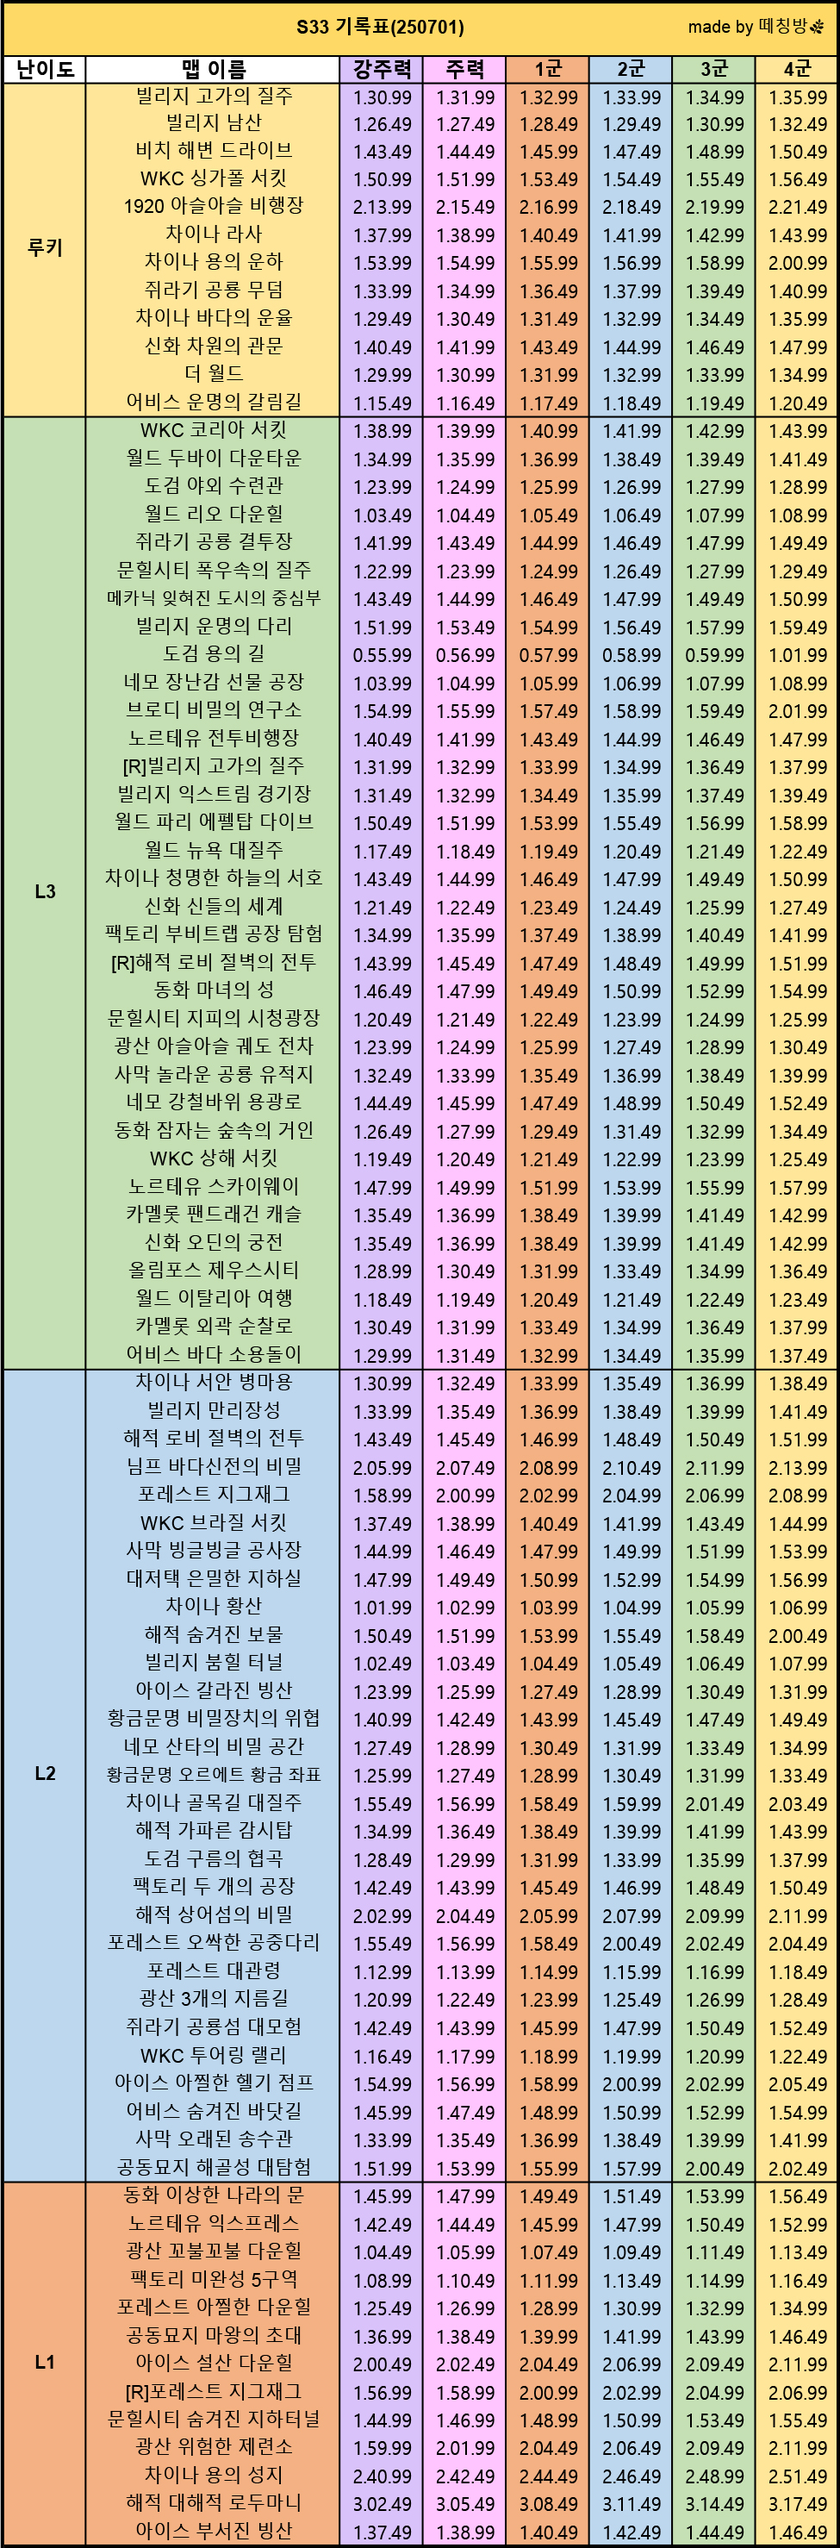
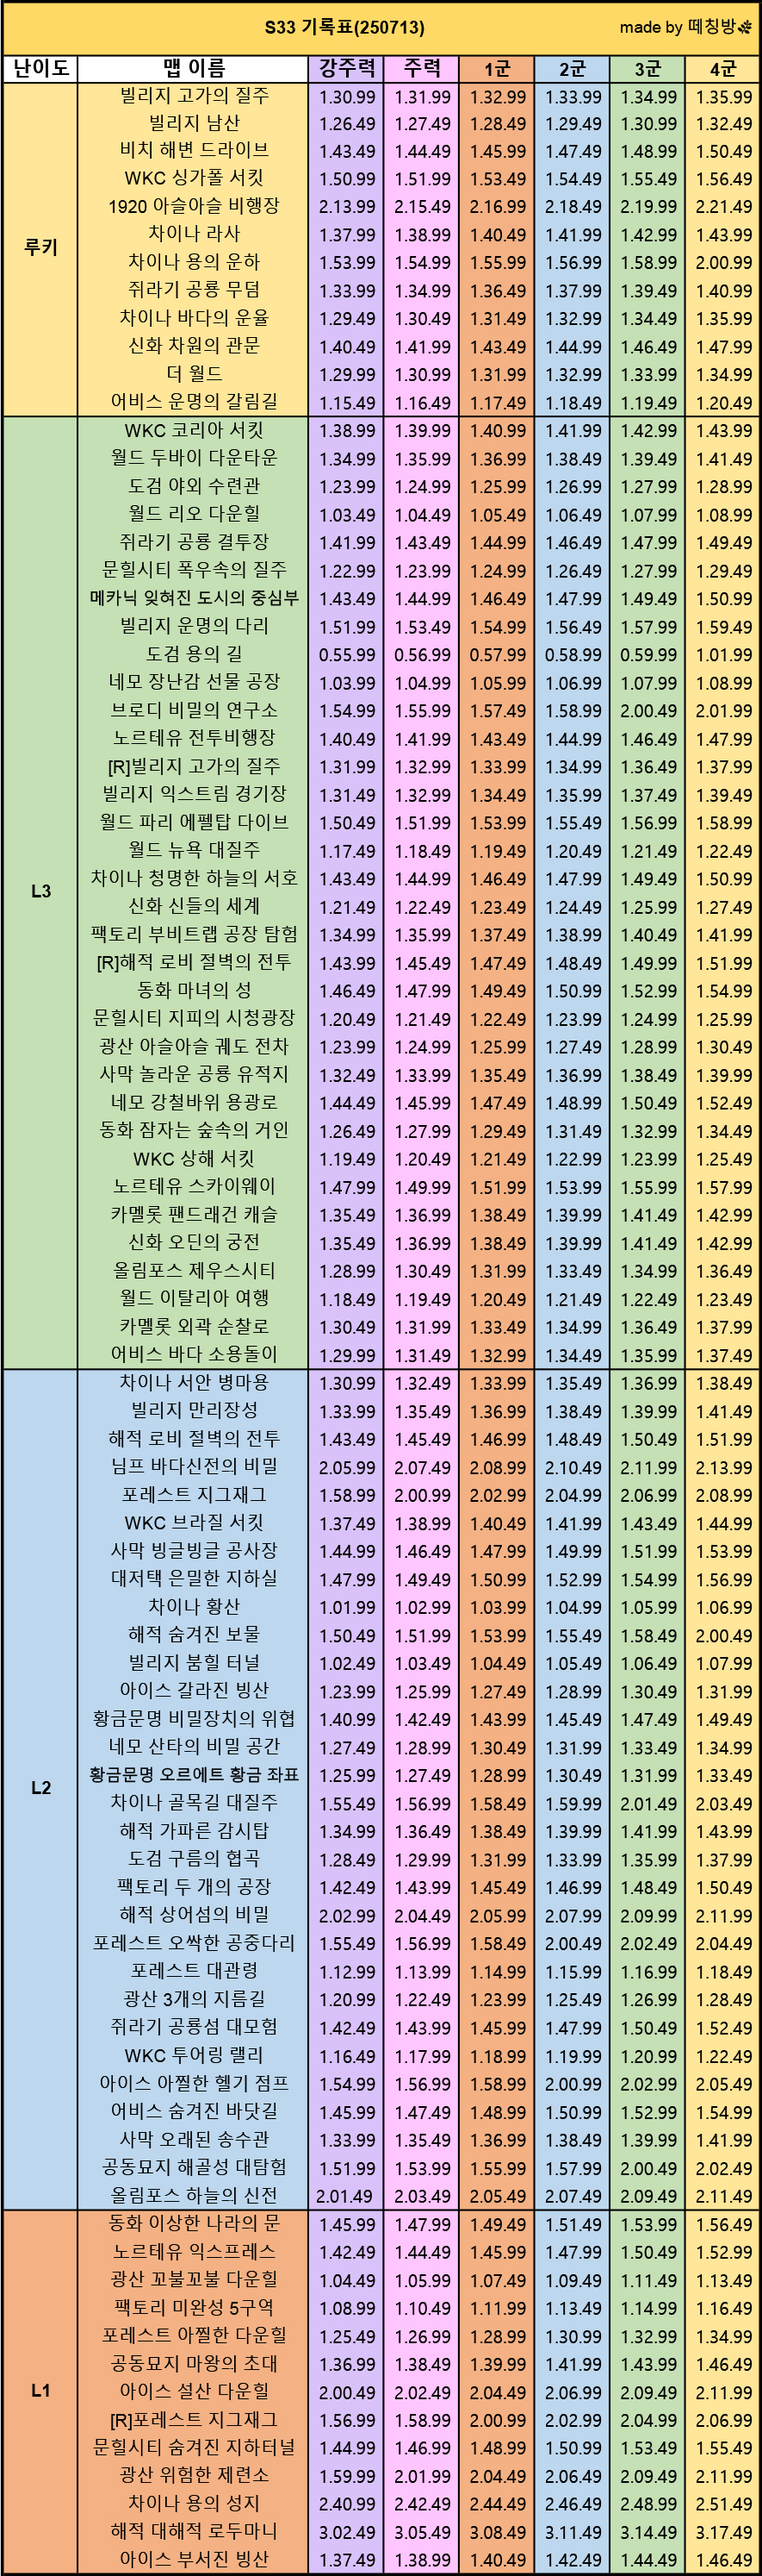
[frontend] feat: New S33 track

diff --git a/client/src/global/mapImages.js b/client/src/global/mapImages.js
@@ -76,6 +76,7 @@ import L2_026 from "../assets/images/map/026 아찔한 헬기 점프.png";
 import L2_027 from "../assets/images/map/027 어비스 숨겨진 바닷길.png";
 import L2_028 from "../assets/images/map/028 사막 오래된 송수관.png";
 import L2_029 from "../assets/images/map/029 해골성.png";
+import L2_030 from "../assets/images/map/030 올림포스 하늘의 신전.png";
 
 import L1_001 from "../assets/images/map/001 동이문.png";
 import L1_002 from "../assets/images/map/002 노익.png";
@@ -170,6 +171,7 @@ const mapImages = [
   L2_027,
   L2_028,
   L2_029,
+  L2_030,
 
   L1_001,
   L1_002,

diff --git a/client/src/global/mapData.js b/client/src/global/mapData.js
@@ -989,6 +989,19 @@ const mapData = [
     ],
     image: "029 해골성.png",
   },
+  {
+    name: "올림포스 하늘의 신전",
+    record: [
+      "02:01:49",
+      "02:03:49",
+      "02:05:49",
+      "02:07:49",
+      "02:09:49",
+      "02:11:49",
+      "02:11:49 +",
+    ],
+    image: "030 올림포스 하늘의 신전.png",
+  },
 
   {
     name: "동화나라 이상한 나라의 문",
@@ -1164,7 +1177,7 @@ const mapData = [
 const mapCount = {
   Rookie: 12,
   L3: 34,
-  L2: 29,
+  L2: 30,
   L1: 13,
 };
 const mapAllCount = Object.values(mapCount).reduce((a, b) => a + b, 0);
